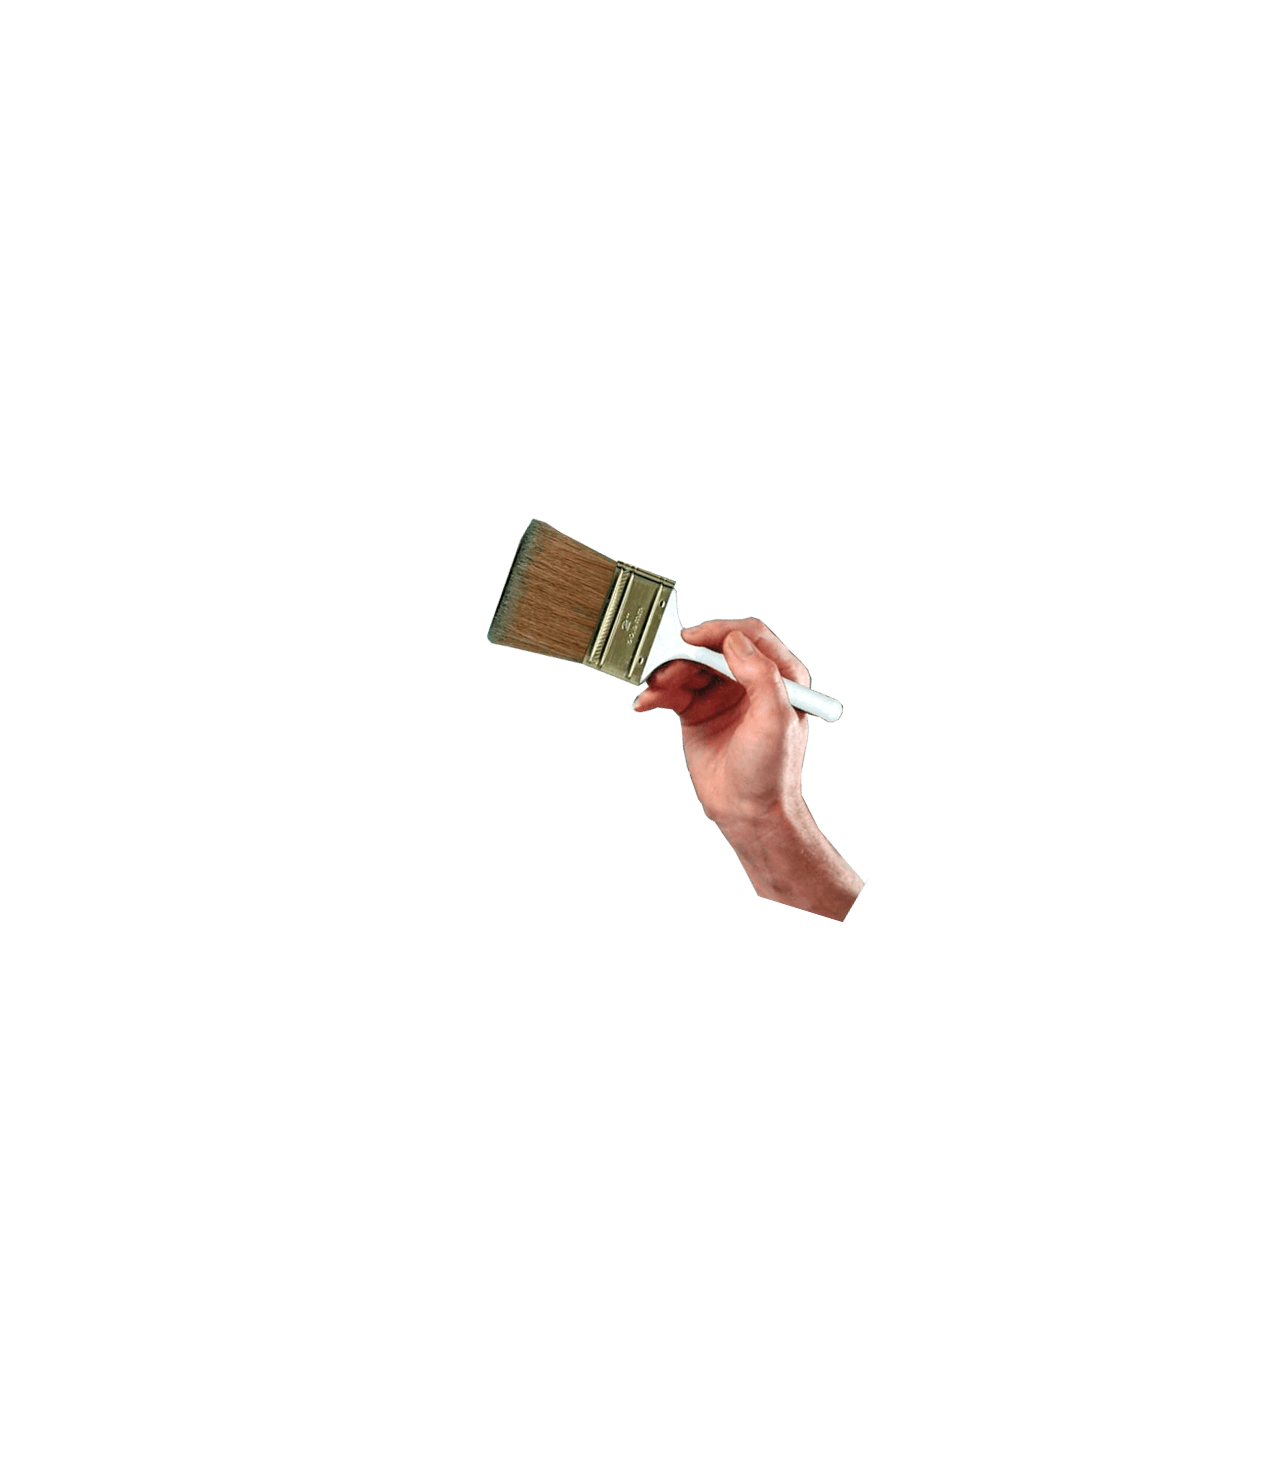
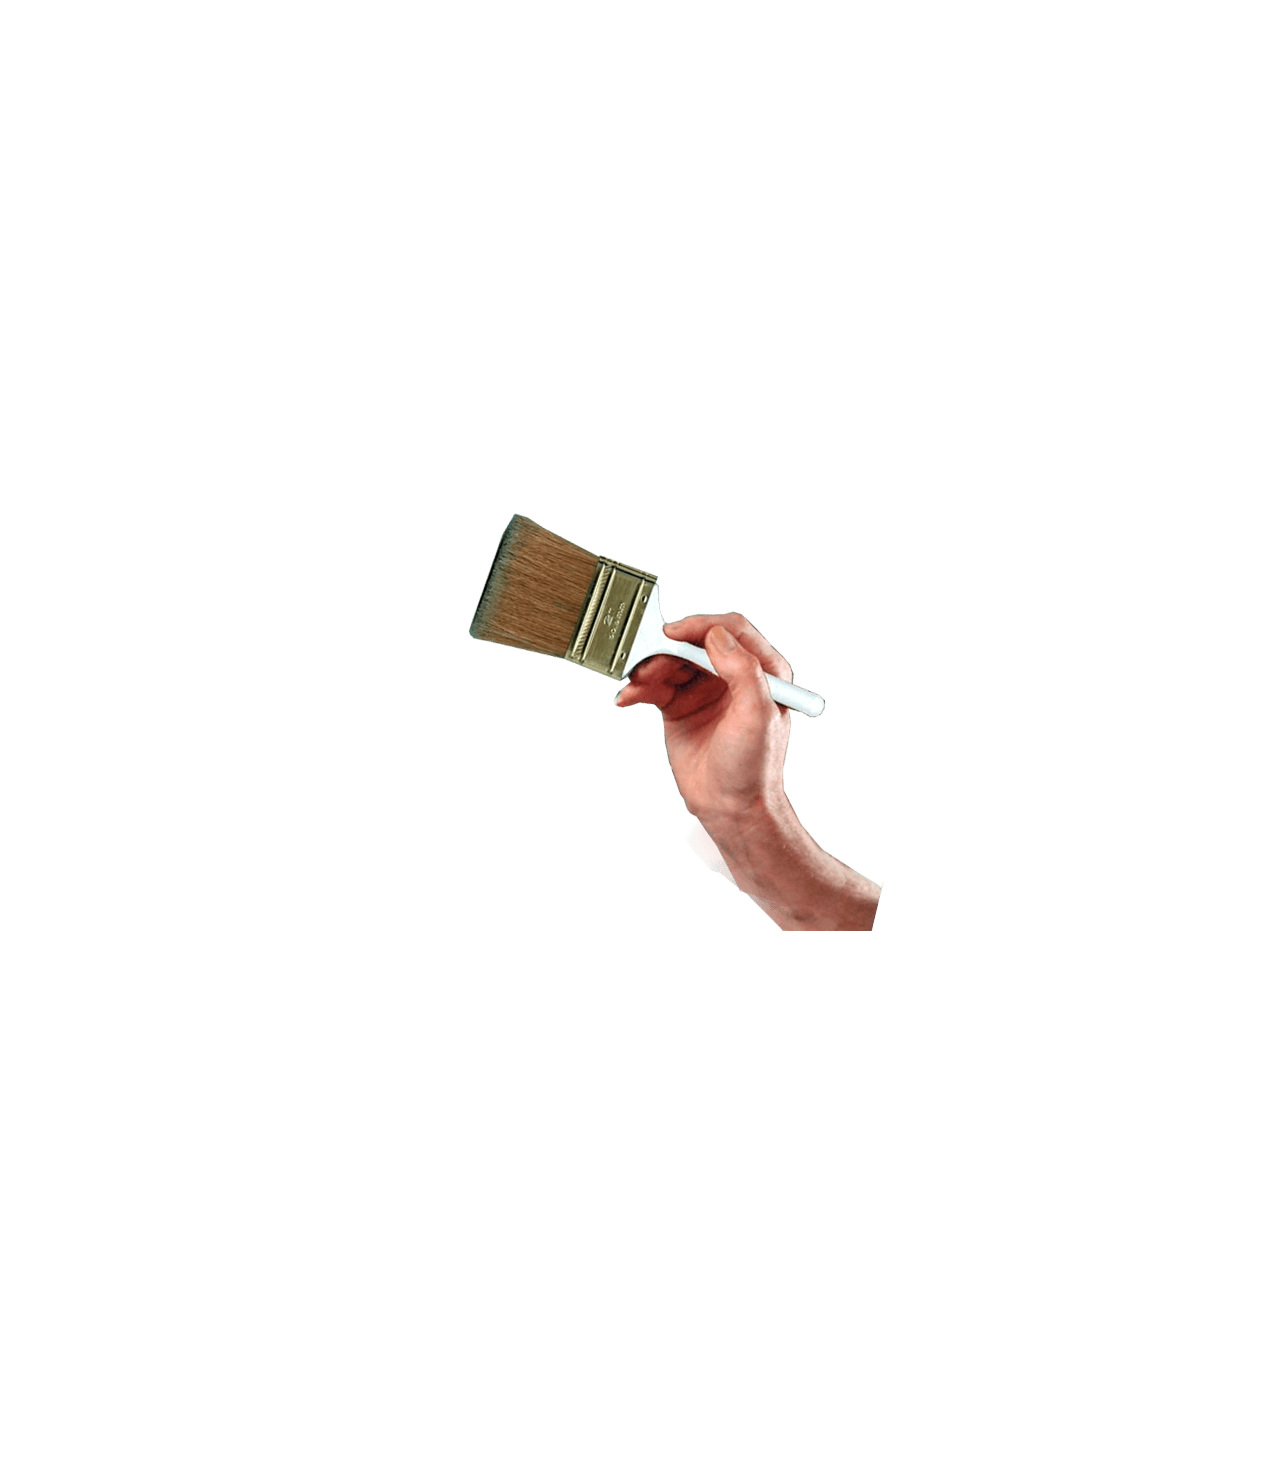
adjusted brush animation

Changed region(s): [[0.3697, 0.3414, 0.7085, 0.6518]]

diff --git a/dev/css/main.css b/dev/css/main.css
@@ -407,14 +407,6 @@ header nav .soundboard .cloud:hover {
   background-image: url("../img/bob_mouth.png");
 }
 /* line 46, ../sass/main.scss */
-#main #bob .brush {
-  background-image: url("../img/bob_brush_a.png");
-}
-/* line 48, ../sass/main.scss */
-#main #bob .brush.b {
-  background-image: url("../img/bob_brush_b.png");
-}
-/* line 52, ../sass/main.scss */
 #main #bob .mouth, #main #bob .brush {
   background-size: 100% auto;
   background-repeat: no-repeat;
@@ -426,7 +418,24 @@ header nav .soundboard .cloud:hover {
   left: 0;
   z-index: 9;
 }
-/* line 65, ../sass/main.scss */
+/* line 57, ../sass/main.scss */
+#main #bob .brush {
+  background-image: url("../img/bob_brush_a.png");
+  -moz-transition-property: background-position;
+  -o-transition-property: background-position;
+  -webkit-transition-property: background-position;
+  transition-property: background-position;
+  -moz-transition-duration: 0.4s;
+  -o-transition-duration: 0.4s;
+  -webkit-transition-duration: 0.4s;
+  transition-duration: 0.4s;
+}
+/* line 62, ../sass/main.scss */
+#main #bob .brush.b {
+  background-position: 0 -5%;
+  background-image: url("../img/bob_brush_b.png");
+}
+/* line 69, ../sass/main.scss */
 #main #video {
   position: absolute;
   top: 12%;
@@ -436,23 +445,23 @@ header nav .soundboard .cloud:hover {
   z-index: 7;
   overflow: hidden;
 }
-/* line 73, ../sass/main.scss */
+/* line 77, ../sass/main.scss */
 #main #video #gif {
   display: none;
 }
 
-/* line 82, ../sass/main.scss */
+/* line 86, ../sass/main.scss */
 .fallback #main #video #player {
   display: none;
 }
-/* line 85, ../sass/main.scss */
+/* line 89, ../sass/main.scss */
 .fallback #main #video #gif {
   position: absolute;
   display: block;
   width: 100%;
   top: 5%;
 }
-/* line 90, ../sass/main.scss */
+/* line 94, ../sass/main.scss */
 .fallback #main #video #gif img, .fallback #main #video #gif canvas {
   border: 0;
   position: absolute;
@@ -462,7 +471,7 @@ header nav .soundboard .cloud:hover {
   height: auto;
 }
 
-/* line 105, ../sass/main.scss */
+/* line 109, ../sass/main.scss */
 footer {
   width: 100%;
   color: #fff;
@@ -476,29 +485,29 @@ footer {
   z-index: 9;
   font-family: "GothamBold";
 }
-/* line 118, ../sass/main.scss */
+/* line 122, ../sass/main.scss */
 footer p a, footer p a:link, footer p a:active, footer p a:visited, footer p a:hover {
   color: #fff;
   text-decoration: none;
 }
-/* line 122, ../sass/main.scss */
+/* line 126, ../sass/main.scss */
 footer p a:hover {
   text-decoration: underline;
 }
 
 @media screen and (max-width: 760px) {
-  /* line 131, ../sass/main.scss */
+  /* line 135, ../sass/main.scss */
   body {
     overflow: hidden;
   }
 
-  /* line 134, ../sass/main.scss */
+  /* line 138, ../sass/main.scss */
   #main {
     width: 75%;
   }
 }
 @media screen and (max-width: 660px) {
-  /* line 140, ../sass/main.scss */
+  /* line 144, ../sass/main.scss */
   #main {
     width: 100%;
     height: 70%;
@@ -507,19 +516,19 @@ footer p a:hover {
   }
 }
 @media screen and (max-width: 480px) {
-  /* line 149, ../sass/main.scss */
+  /* line 153, ../sass/main.scss */
   #main {
     width: 100%;
     height: 500px;
     top: 150px;
   }
 }
-/* line 156, ../sass/main.scss */
+/* line 160, ../sass/main.scss */
 .mejs-layers, .mejs-controls {
   display: none;
 }
 
-/* line 159, ../sass/main.scss */
+/* line 163, ../sass/main.scss */
 audio {
   display: none;
 }

diff --git a/dev/js/yeezypainter/Bob.js b/dev/js/yeezypainter/Bob.js
@@ -1,6 +1,7 @@
 this.yeezypainter = this.yeezypainter || {};
 (function(){
 	function Bob(id,sounds){
+		var _b_to = [];
 		var _init = function(){
 			this.container = $(id);
 			this.mouth = $(id+'>.mouth');
@@ -10,7 +11,21 @@ this.yeezypainter = this.yeezypainter || {};
 		this.container = null;
 		this.mouth = null;
 		this.brush = null;
+		this.moveBrush = function(){
+			console.log('movebrush');
+			//var _int = 
+			this.brush.addClass('b');
+			_b_to.push(setTimeout(createjs.proxy(this.brush.removeClass,this.brush,'b'),200));
+			_b_to.push(setTimeout(createjs.proxy(this.brush.addClass,this.brush,'b'),500));		
+			_b_to.push(setTimeout(createjs.proxy(this.brush.removeClass,this.brush,'b'),800));
+			//this.brush.addClass('b');
+			//this.brush.delay(500).addClass('b');
+			//this.brush.removeClass('b').delay(1500);
+
+
+		}
 		_init.call(this);
+		
 	}
 	var p = Bob.prototype;
 	p.talk = function(phrase){
@@ -45,13 +60,10 @@ this.yeezypainter = this.yeezypainter || {};
 				this.mouth.animate({top:'3%'},200).animate({top:'1%'},100).animate({top:'3%'},100).animate(
 					{top:0},100).animate({top:'3%'},200).animate({top:'1%'},100).animate({top:'3%'},100).animate({top:0},100);
 			break;
-			
 		}
 		this.sounds.playSound(phrase);
 	}
-	p.moveBrush = function(){
-	//	console.log('movebrush');
-	}
+	
 	yeezypainter.Bob = Bob;
 }());
 

diff --git a/dev/sass/main.scss b/dev/sass/main.scss
@@ -43,12 +43,6 @@ body, html {
 		.mouth{
 			background-image: url('../img/bob_mouth.png');
 		}
-		.brush{
-			background-image: url('../img/bob_brush_a.png');
-			&.b{
-				background-image: url('../img/bob_brush_b.png');
-			}
-		}
 		.mouth, .brush{
 			background-size: 100% auto;
 			background-repeat: no-repeat;
@@ -60,7 +54,17 @@ body, html {
 			left: 0;
 			z-index:9;
 		}
-	
+		.brush{
+			background-image: url('../img/bob_brush_a.png');
+			@include transition-property(background-position);			
+			//@include transition-property(width);		
+			@include transition-duration(.4s);
+			&.b{
+			//	width:99%;
+			background-position: 0 -5%;
+				background-image: url('../img/bob_brush_b.png');
+			}
+		}
 	}
 	#video{
 		position: absolute;

diff --git a/dev/js/yeezypainter/YeezyPainter.js b/dev/js/yeezypainter/YeezyPainter.js
@@ -22,7 +22,7 @@ this.yeezypainter = this.yeezypainter || {};
 			var notPlaying = setTimeout(createjs.proxy(function(){
 				_showFallback = true;
 				this.dispatchEvent(YeezyPainter.VIDEO_FAIL);
-			},this) ,1000);
+			},this) ,2000);
 			this.media.addEventListener('playing',createjs.proxy(function(event){
 				clearTimeout(notPlaying);
 				_showFallback = false;
